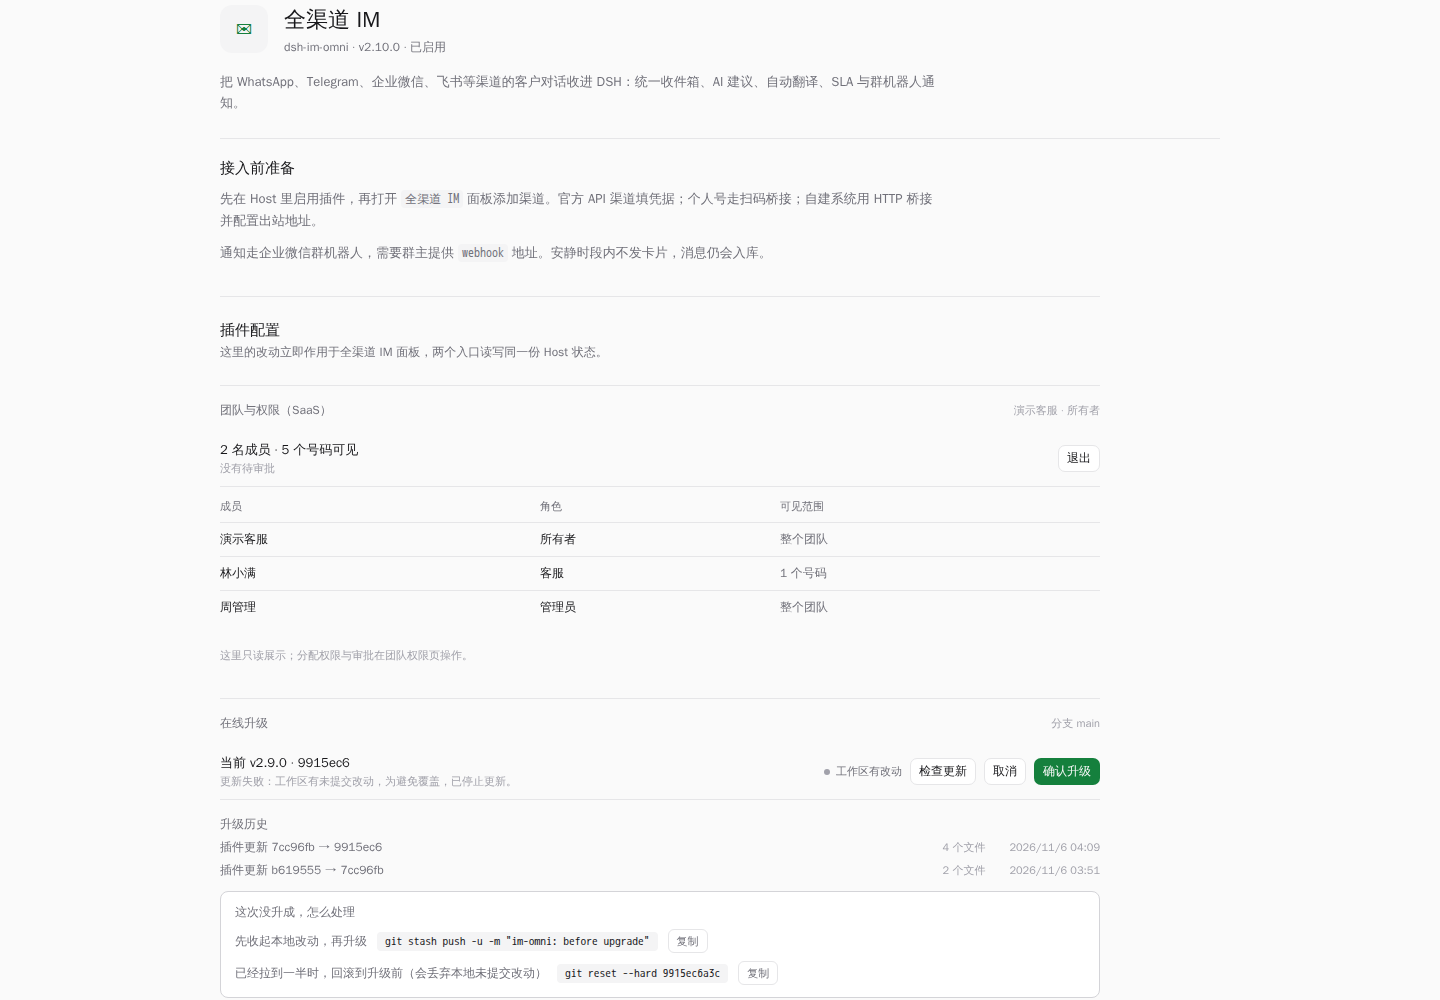
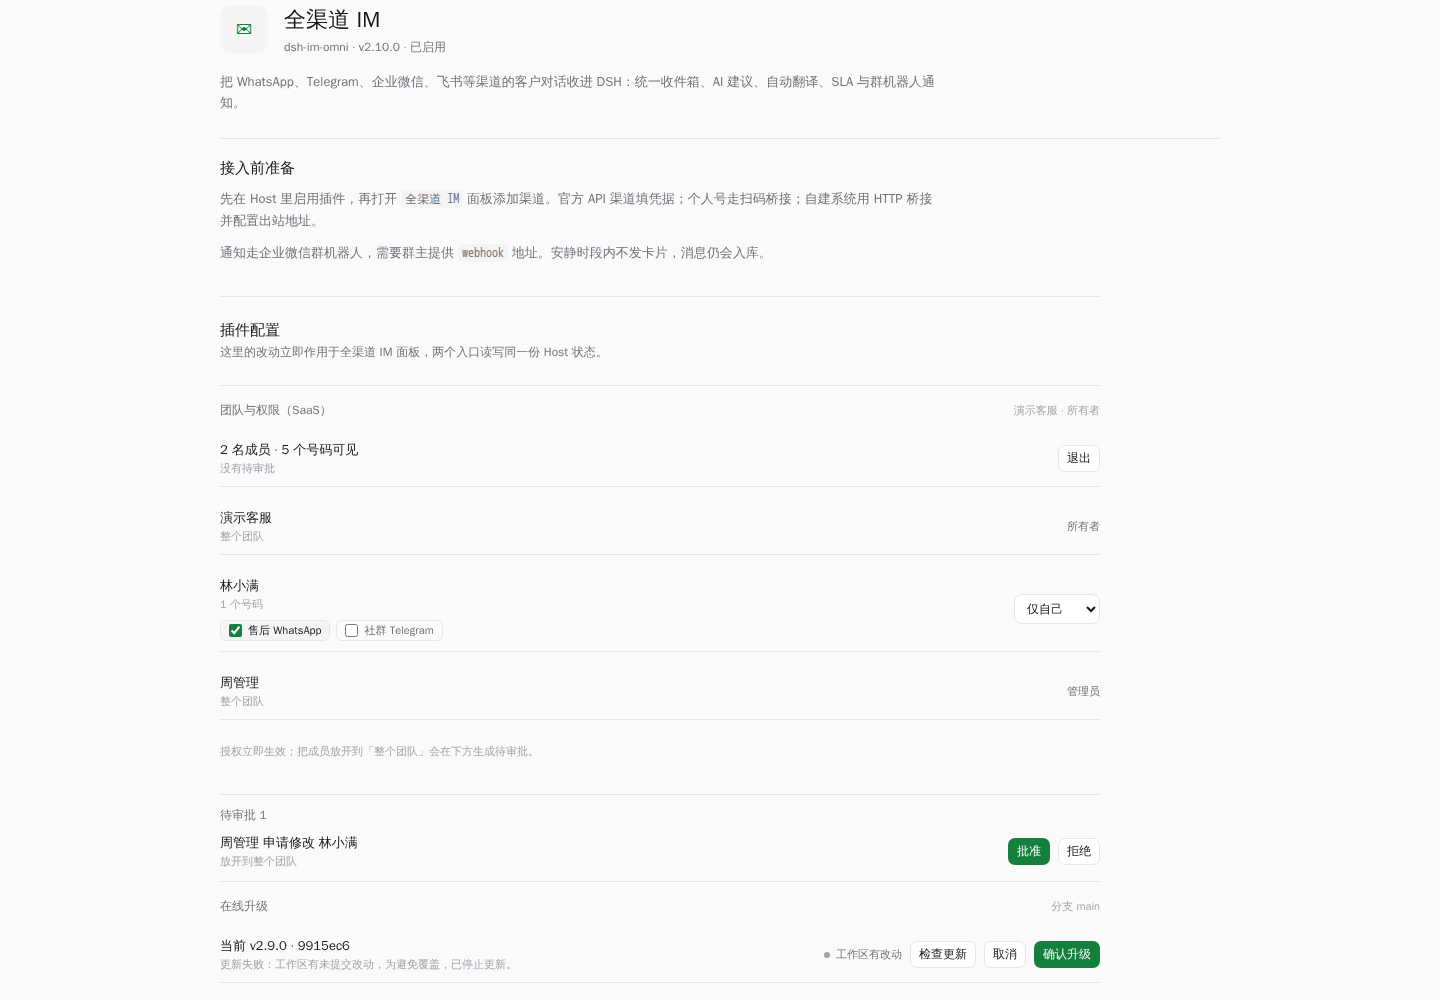
feat: scoped search and editable team permissions on the plugin page
- Search: GET /v1/conversations?q= matches subject, contact name, channel name and
  message bodies; GET /v1/channels?q= matches names. Both run inside the member's
  row policies, so no extra scope filter can be forgotten.
- Detail page: the SaaS group becomes editable — per-member scope select, channel
  chips, owner approve/reject for pending requests; a tenant-wide grant asks for
  the email (matching the server's confirmEmail rule) and a 202 only bumps the
  pending count instead of pretending it applied.
- Tests: search returns the owner's row and an empty list for another member;
  channel search follows the same rule. 86 passed.
- Screenshot docs/detail-saas-team.png refreshed.

diff --git a/client.js b/client.js
@@ -82,6 +82,11 @@ window.__ModuleLoader__.load({
 .imCfgConfirmTitle{font-size:12.5px;margin:0;line-height:1.5}
 .imCfgDirty{display:flex;flex-wrap:wrap;gap:6px;align-items:center}
 .imCfgDirtyFile{font-size:11px;color:var(--dsw-alias-label-secondary);background:var(--dsw-alias-bg-layer-2);padding:1px 6px;border-radius:4px}
+.imCfgChips{display:flex;flex-wrap:wrap;gap:6px;margin-top:6px}
+.imCfgChip{display:inline-flex;align-items:center;gap:6px;border:.5px solid var(--dsw-alias-border-l1);border-radius:6px;padding:2px 8px;font-size:11px;color:var(--dsw-alias-label-secondary);cursor:pointer}
+.imCfgChip.on{color:var(--dsw-alias-label-primary);background:var(--dsw-alias-bg-layer-2)}
+.imCfgChip input{accent-color:var(--dsw-alias-brand-primary);margin:0}
+.imCfgPending{border-top:.5px solid var(--dsw-alias-border-l1);margin-top:12px;padding-top:12px}
 .imCfgCommits{display:flex;flex-direction:column;gap:6px;padding:4px 0 0}
 .imCfgCommit{display:flex;align-items:baseline;gap:10px;font-size:12px;min-width:0}
 .imCfgCommit code{font-size:11px;color:var(--dsw-alias-label-tertiary);background:var(--dsw-alias-bg-layer-2);padding:1px 5px;border-radius:4px;flex:none}
@@ -5578,6 +5583,7 @@ window.__ModuleLoader__.load({
         members: [],
         channels: [],
         approvals: 0,
+        pending: [],
         busy: '',
         error: '',
       })
@@ -5639,11 +5645,90 @@ window.__ModuleLoader__.load({
             members: members.items ?? [],
             channels: channels.items ?? [],
             approvals: (approvals.items ?? []).filter((item) => item.status === 'pending').length,
+            pending: (approvals.items ?? []).filter((item) => item.status === 'pending'),
           }))
         } catch (error) {
           setSaas((current) => ({ ...current, busy: '', error: error instanceof Error ? error.message : String(error) }))
         }
       }, [saas.base, saas.email, saas.password])
+
+      /**
+       * Reload the roster the SaaS API reports for the signed-in member.
+       * @returns {Promise<void>} nothing.
+       */
+      const saasRefresh = React.useCallback(async () => {
+        if (saas.token === '' || saas.tenantId === '') return
+        const base = saas.base.replace(/\/$/, '')
+        const headers = { authorization: `Bearer ${saas.token}`, accept: 'application/json' }
+        const [members, channels, approvals] = await Promise.all([
+          fetch(`${base}/v1/tenants/${saas.tenantId}/members`, { headers }).then((item) => item.json()),
+          fetch(`${base}/v1/channels`, { headers }).then((item) => item.json()),
+          fetch(`${base}/v1/tenants/${saas.tenantId}/approvals?status=all`, { headers }).then((item) => (item.ok ? item.json() : { items: [] })),
+        ])
+        setSaas((current) => ({
+          ...current,
+          members: members.items ?? [],
+          channels: channels.items ?? [],
+          approvals: (approvals.items ?? []).filter((item) => item.status === 'pending').length,
+          pending: (approvals.items ?? []).filter((item) => item.status === 'pending'),
+        }))
+      }, [saas.base, saas.token, saas.tenantId])
+
+      /**
+       * Change one member's visibility, asking for the email before a tenant-wide grant.
+       * @param {Record<string, any>} member - roster row.
+       * @param {{dataScope?: string, channelIds?: string[]}} patch - requested change.
+       * @returns {Promise<void>} nothing.
+       */
+      const saasGrant = React.useCallback(async (member, patch) => {
+        if (saas.token === '') return
+        const body = { ...patch }
+        if (body.dataScope === 'all') {
+          const typed = window.prompt(`把 ${member.name || member.email} 设成整个团队？输入对方邮箱确认：`, '')
+          if (typed === null) return
+          body.confirmEmail = typed.trim()
+        }
+        try {
+          const response = await fetch(saas.base.replace(/\/$/, '') + '/v1/tenants/' + saas.tenantId + '/members/' + member.user_id, {
+            method: 'PATCH',
+            headers: { 'content-type': 'application/json', authorization: `Bearer ${saas.token}` },
+            body: JSON.stringify(body),
+          })
+          const payload = await response.json().catch(() => null)
+          if (response.status === 202) {
+            setSaas((current) => ({ ...current, error: '', approvals: current.approvals + 1 }))
+            return
+          }
+          if (!response.ok) throw new Error(payload?.error?.message ?? `HTTP ${response.status}`)
+          await saasRefresh()
+        } catch (error) {
+          setSaas((current) => ({ ...current, error: error instanceof Error ? error.message : String(error) }))
+        }
+      }, [saas.base, saas.token, saas.tenantId, saasRefresh])
+
+      /**
+       * Approve or reject a pending request as the owner.
+       * @param {string} id - approval id.
+       * @param {'approve'|'reject'} decision - what to do.
+       * @returns {Promise<void>} nothing.
+       */
+      const saasDecide = React.useCallback(async (id, decision) => {
+        if (saas.token === '') return
+        try {
+          const response = await fetch(saas.base.replace(/\/$/, '') + '/v1/tenants/' + saas.tenantId + '/approvals/' + id, {
+            method: 'POST',
+            headers: { 'content-type': 'application/json', authorization: `Bearer ${saas.token}` },
+            body: JSON.stringify({ decision }),
+          })
+          if (!response.ok) {
+            const payload = await response.json().catch(() => null)
+            throw new Error(payload?.error?.message ?? `HTTP ${response.status}`)
+          }
+          await saasRefresh()
+        } catch (error) {
+          setSaas((current) => ({ ...current, error: error instanceof Error ? error.message : String(error) }))
+        }
+      }, [saas.base, saas.token, saas.tenantId, saasRefresh])
 
       const load = React.useCallback(async () => {
         try {
@@ -5956,26 +6041,75 @@ window.__ModuleLoader__.load({
                 ),
                 h('button', { type: 'button', className: 'imoBtn imoBtnSm', onClick: () => setSaas({ ...saas, token: '', password: '', members: [], channels: [], approvals: 0 }) }, '退出'),
               ),
-              h('table', { className: 'imCfgMatrix' },
-                h('thead', null, h('tr', null, h('th', null, '成员'), h('th', null, '角色'), h('th', null, '可见范围'))),
-                h('tbody', null, saas.members.map((member) => {
-                  const permission = member.permissions ?? {}
-                  const all = permission.dataScope === 'all' || (permission.dataScope === undefined && (member.role === 'owner' || member.role === 'admin'))
-                  const granted = Array.isArray(permission.channelIds) ? permission.channelIds.length : 0
-                  return h('tr', { key: member.user_id },
-                    h('td', null, member.name || member.email),
-                    h('td', null, member.role === 'owner' ? '所有者' : member.role === 'admin' ? '管理员' : member.role === 'viewer' ? '只读' : '客服'),
-                    h('td', { className: 'imCfgMark' }, all ? '整个团队' : granted > 0 ? `${granted} 个号码` : '仅自己'),
-                  )
-                })),
-              ),
+              saas.members.map((member) => {
+                const permission = member.permissions ?? {}
+                const isAdminRole = member.role === 'owner' || member.role === 'admin'
+                const all = permission.dataScope === 'all' || (permission.dataScope === undefined && isAdminRole)
+                const granted = new Set(Array.isArray(permission.channelIds) ? permission.channelIds : [])
+                const canGrant = saas.role === 'owner' || saas.role === 'admin'
+                return h('div', { key: member.user_id, className: 'imCfgRow' },
+                  h('div', { className: 'imCfgRowMain' },
+                    h('span', { className: 'imCfgRowTitle' }, member.name || member.email),
+                    h('span', { className: 'imCfgRowNote' }, all ? '整个团队' : granted.size > 0 ? `${granted.size} 个号码` : '仅自己'),
+                    all || !canGrant
+                      ? null
+                      : h('div', { className: 'imCfgChips' }, saas.channels.map((channel) => {
+                        const on = granted.has(channel.id)
+                        return h('label', { key: channel.id, className: `imCfgChip ${on ? 'on' : ''}`.trim() },
+                          h('input', {
+                            type: 'checkbox',
+                            checked: on,
+                            onChange: () => {
+                              const next = new Set(granted)
+                              if (on) next.delete(channel.id)
+                              else next.add(channel.id)
+                              void saasGrant(member, { channelIds: [...next], dataScope: 'own' })
+                            },
+                          }),
+                          channel.name,
+                        )
+                      })),
+                  ),
+                  canGrant && member.role !== 'owner'
+                    ? h('select', {
+                      className: 'imCfgSelect',
+                      value: all ? 'all' : 'own',
+                      onChange: (event) => {
+                        void saasGrant(member, event.target.value === 'all'
+                          ? { dataScope: 'all', channelIds: [] }
+                          : { dataScope: 'own' })
+                      },
+                    }, h('option', { value: 'own' }, '仅自己'), h('option', { value: 'all' }, '整个团队'))
+                    : h('span', { className: 'imCfgStatus' }, member.role === 'owner' ? '所有者' : isAdminRole ? '管理员' : '客服'),
+                )
+              }),
             ),
           saas.token === ''
             ? h('div', { className: 'imCfgActions' },
               h('button', { type: 'button', className: 'imoBtn imoBtnSm imoBtnPrimary', disabled: saas.busy !== '', onClick: () => { void saasLogin() } }, saas.busy === 'login' ? '登录中…' : '登录'),
               saas.error === '' ? null : h('span', { className: 'imCfgNote' }, saas.error),
             )
-            : h('p', { className: 'imCfgNote' }, '这里只读展示；分配权限与审批在团队权限页操作。'),
+            : h('div', null,
+              h('p', { className: 'imCfgNote' }, '授权立即生效；把成员放开到「整个团队」会在下方生成待审批。'),
+              saas.pending.length === 0
+                ? null
+                : h('div', { className: 'imCfgPending' },
+                  h('p', { className: 'imCfgGroupTitle' }, `待审批 ${saas.pending.length}`),
+                  saas.pending.map((item) => h('div', { key: item.id, className: 'imCfgRow' },
+                    h('div', { className: 'imCfgRowMain' },
+                      h('span', { className: 'imCfgRowTitle' }, `${item.requester_name || item.requester_email} 申请修改 ${item.payload?.targetName ?? item.target_name ?? ''}`),
+                      h('span', { className: 'imCfgRowNote' }, item.action === 'channel.delete' ? `删除渠道 ${item.payload?.channelName ?? ''}` : item.action === 'member.remove' ? '移除成员' : item.payload?.dataScope === 'all' ? '放开到整个团队' : `角色改为 ${item.payload?.role ?? ''}`),
+                    ),
+                    saas.role === 'owner'
+                      ? h('div', { className: 'imCfgActions' },
+                        h('button', { type: 'button', className: 'imoBtn imoBtnSm imoBtnPrimary', onClick: () => { void saasDecide(item.id, 'approve') } }, '批准'),
+                        h('button', { type: 'button', className: 'imoBtn imoBtnSm', onClick: () => { void saasDecide(item.id, 'reject') } }, '拒绝'),
+                      )
+                      : h('span', { className: 'imCfgStatus' }, '等待所有者'),
+                  )),
+                ),
+              saas.error === '' ? null : h('span', { className: 'imCfgNote' }, saas.error),
+            ),
         ),
 
         h('section', { className: 'imCfgGroup' },

diff --git a/docs/SAAS-ARCHITECTURE.md b/docs/SAAS-ARCHITECTURE.md
@@ -567,11 +567,20 @@ $ cd server && node --test test/isolation.test.mjs
   扫描无租户上下文，走 `SECURITY DEFINER` 的 `pending_approvals_due()`，不引入特权连接池。
 截图：`docs/permissions-approval.png` / `docs/permissions-approved.png`。
 
-### 插件详情页接入统一权限（只读）
+### 插件详情页接入统一权限
 
 - 详情页配置区新增「团队与权限（SaaS）」：填服务地址 + 账号密码 → `POST /v1/auth/login`，随后读
   `/v1/me`、`/v1/tenants/{id}/members`、`/v1/channels`、`/v1/tenants/{id}/approvals`。
-- 展示：成员、角色、可见范围（整个团队 / N 个号码 / 仅自己），以及待审批数量；写操作仍在团队权限页。
+- **可写**：每个成员的可见范围下拉 + 渠道号码 chip 勾选（`PATCH …/members/{userId}`）；
+  选「整个团队」时用浏览器 prompt 要求输入对方邮箱（与服务端 `confirmEmail` 校验一致）；
+  待审批列表可直接批准/拒绝（仅所有者）。
+- 管理员提案返回 202 时页面只增加待审批计数，不谎报生效。
 - 跨域：API 对所有带 `Origin` 的请求回 `access-control-allow-origin`，并对 `OPTIONS` 直接 204，
   允许 `authorization` 头；`vary: origin`。
 截图：`docs/detail-saas-team.png`。
+
+### 搜索接口的隔离
+
+- `GET /v1/conversations?q=` 在会话主题、联系人名、渠道名、消息正文上做 `ILIKE`，
+  查询本身就跑在成员行策略里，**不需要额外的范围条件**；`GET /v1/channels?q=` 同理。
+- 测试：所有者搜得到，其他成员搜同一关键词返回空数组（不是 403），渠道搜索同规则。

diff --git a/docs/API-v1.md b/docs/API-v1.md
@@ -20,8 +20,8 @@
 | 租户 / 成员 | `POST /v1/tenants`、`GET /v1/tenants/{id}/members`、`PATCH /v1/tenants/{id}/members/{userId}`、`DELETE /v1/tenants/{id}/members/{userId}`、`GET /v1/tenants/{id}/audit`、`GET /v1/tenants/{id}/audit.csv`、`GET /v1/tenants/{id}/approvals`、`POST /v1/tenants/{id}/approvals/{approvalId}` | ✅ 已实现（PATCH 分配可见范围/角色并写审计；`dataScope=all` 或改 `role` 必须带 `confirmEmail`；DELETE 移除成员（需 `confirmEmail`）；audit 支持 before 游标） |
 | 邀请 | `POST /v1/tenants/{id}/invites`、`POST /v1/invites/accept` | ✅ 已实现 |
 | 设备 | `POST /v1/devices/{code,link,register}`、`GET /v1/devices`、`DELETE /v1/devices/{id}` | ✅ 已实现 |
-| 会话列表 | `GET /v1/conversations` | ✅ 已实现（无分页，限 50 条） |
-| 联系人 / 渠道 | `GET /v1/contacts`、`GET /v1/channels`、`GET /v1/channels/{id}`、`DELETE /v1/channels/{id}` | ✅ 已实现（按成员权限范围隔离） |
+| 会话列表 | `GET /v1/conversations?q=` | ✅ 已实现（无分页，限 50 条） |
+| 联系人 / 渠道 | `GET /v1/contacts`、`GET /v1/channels?q=`、`GET /v1/channels/{id}`、`DELETE /v1/channels/{id}` | ✅ 已实现（按成员权限范围隔离） |
 | 会话消息 / 已读 / 属性 | `GET /v1/conversations/{id}/messages`、`POST /v1/conversations/{id}/read`、`PATCH /v1/conversations/{id}` | ✅ 已实现 |
 | 发消息 | `POST /v1/messages` | ✅ 已实现（幂等 + 配额 + 计量） |
 | 计费 | `GET /v1/billing/{plan,usage,invoices}`、`POST /v1/billing/invoices`、`POST /v1/billing/invoices/{id}/status` | ✅ 已实现 |
